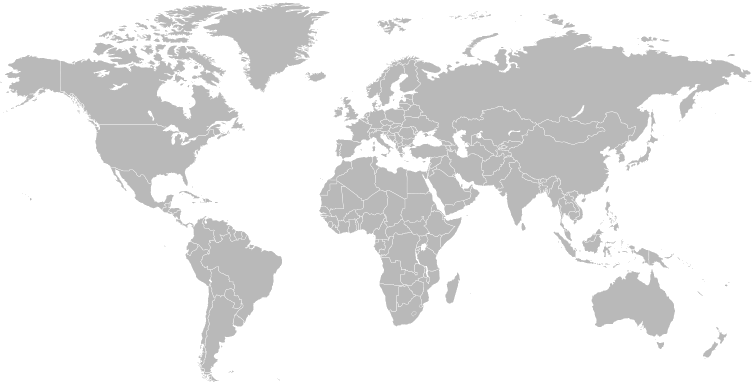
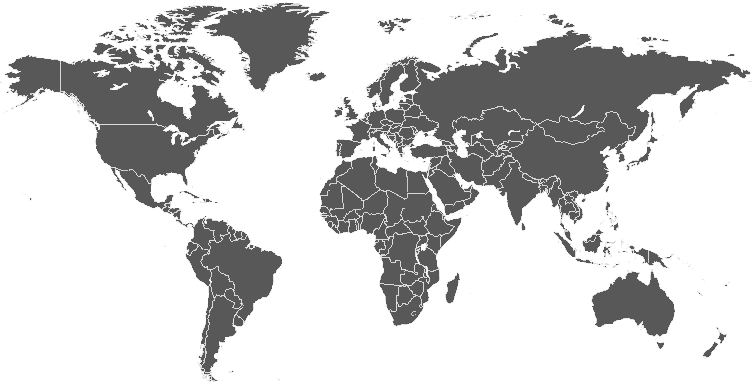
UI: Tune map and keyboard layout

diff --git a/usr/share/live-installer/style.css b/usr/share/live-installer/style.css
@@ -14,3 +14,7 @@
   color: #efefef;
   background-color: #3c3c3c;
 }
+
+.live-installer-map {
+  background-color: #d8e7ee;
+}

diff --git a/usr/lib/live-installer/frontend/generate_keyboard_layout.py b/usr/lib/live-installer/frontend/generate_keyboard_layout.py
@@ -104,10 +104,10 @@ class Keyboard(QWidget):
 
         pen = QPen()
         pen.setWidth(1)
-        pen.setColor(QColor(0x58, 0x58, 0x58)) # color of the borders of the keys
+        pen.setColor(QColor(0x58, 0x58, 0x58)) # color of the borders of the keycaps
         p.setPen(pen)
 
-        p.setBrush(QColor(0x58, 0x58, 0x58)) # color of the keys
+        p.setBrush(QColor(0x58, 0x58, 0x58)) # color of the keycaps
 
         p.setBackgroundMode(Qt.TransparentMode)
 
@@ -133,11 +133,11 @@ class Keyboard(QWidget):
 
                 rect.adjust(5,1, 0, 0)
 
-                p.setPen(QColor(0xff, 0xff, 0xff))
+                p.setPen(QColor(0xff, 0xff, 0xff)) # Color of the keycaps top legends (Q, W, E...)
                 p.setFont(self.lowerFont)
                 p.drawText(rect, int(Qt.AlignLeft | Qt.AlignBottom), self.regular_text(k))
 
-                p.setPen(QColor(0x9e, 0xde, 0x00))
+                p.setPen(QColor(0x9e, 0xde, 0xff)) # Color of the keycaps bottom legends (q, w, e...)
                 p.setFont(self.upperFont)
                 p.drawText(rect, int(Qt.AlignLeft | Qt.AlignTop), self.shift_text(k))
 
@@ -192,10 +192,6 @@ class Keyboard(QWidget):
             w1 = remaining_widths[1]
             x2 = remaining_x[2]
             y2 = 6 + kw*2 + space*2
-
-            # this is some serious crap... but it has to be so
-            # maybe one day keyboards won't look like this...
-            # one can only hope
             pp = QPainterPath()
             pp.moveTo(x1, y1+rx)
             pp.arcTo(x1, y1, rx, rx, 180, -90)
